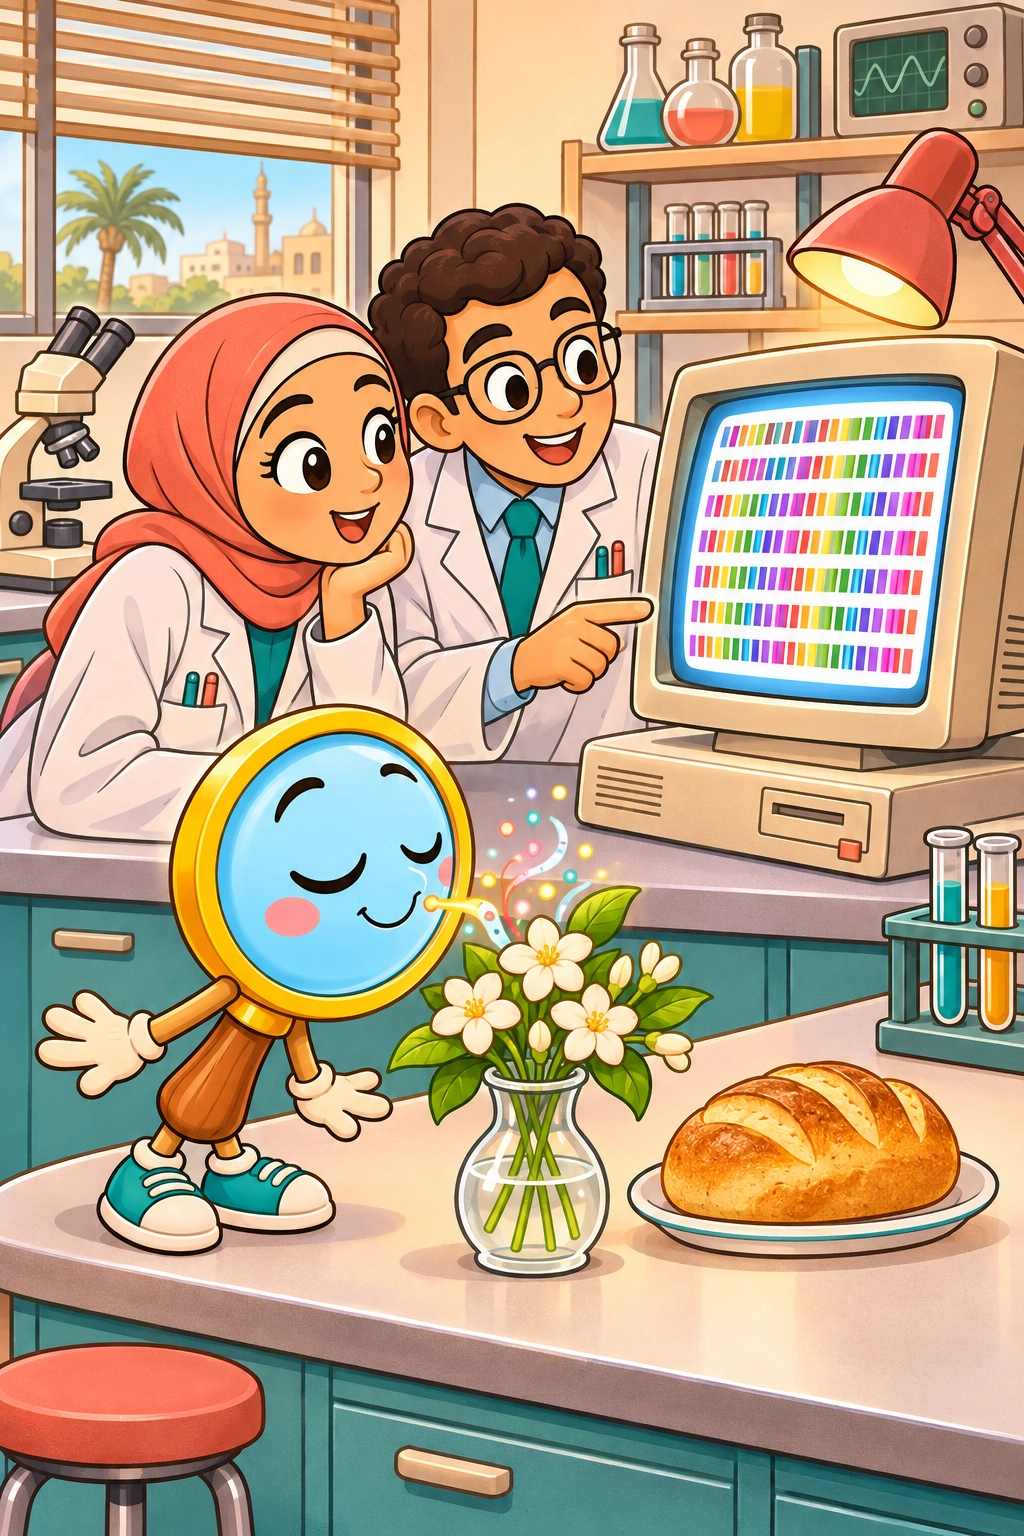
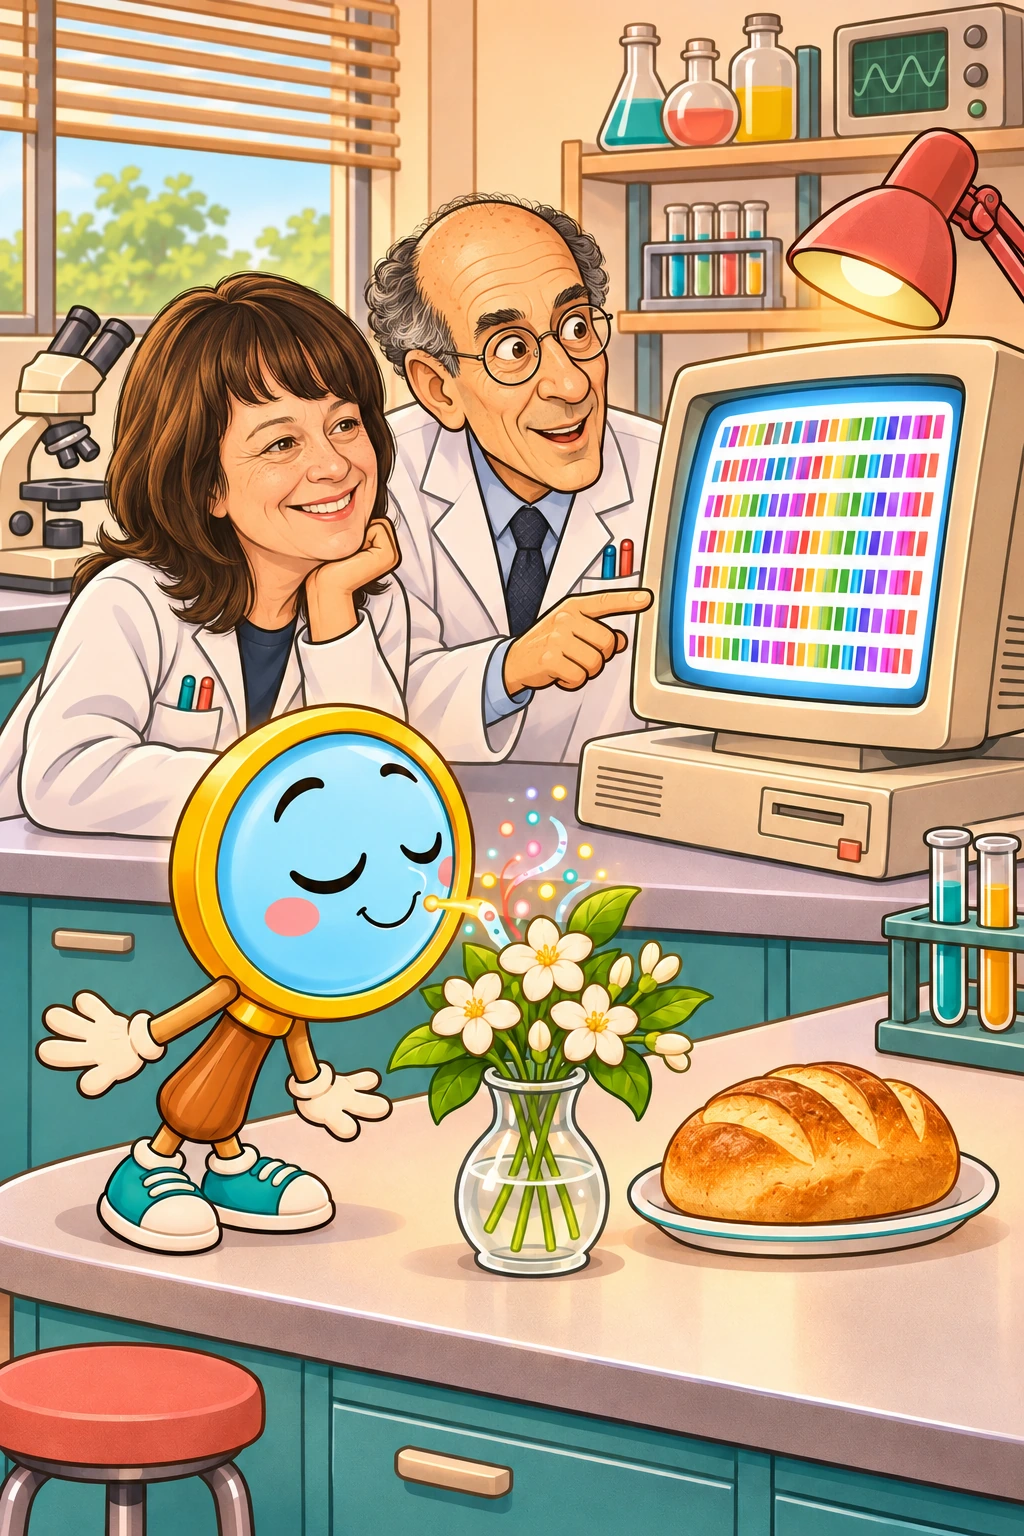
U08: استبدال صورتين بقرار صاحب المشروع — باك وأكسل بلا حجاب (L03-hist2)، وغلاف الخوف للولد والكليتان تحت القفص الصدري (L04-title-boy)
Claude-Session: https://claude.ai/code/session_01G7CgDsKA6tkPvMjYD2KqLL

diff --git a/docs/27-برومبتات-المشاهد-U08.md b/docs/27-برومبتات-المشاهد-U08.md
@@ -29,6 +29,7 @@
 ### حالة الصور (25 نوفمبر 2026): 63 من 63
 - **رُسمت بالشيفرة (SVG ← WebP) 27 صورة تعليمية** بأسلوب رسوم U06 وU07: U08.L01-E1 إلى E6، وU08.L02-E1 إلى E6، وU08.L03-E1 إلى E6، وU08.L04-E1 وE2 وE4 وE6، وU08.L05-E1 وE2 وE3 وE5 وE6. مصدرها `art-sources/U08/sources/build_u08.py` (وملفات SVG بجانبه). وحين يُستبدل المشهد بتفاعل خاص تُكمّله الصورة ولا تكرّره (مثلاً: طفل يقرأ والضوء يدخل عينه فوق تفاعل «طريق الضوء»).
 - **وصلت 36 صورة قصصية مولّدة (25 نوفمبر 2026) ورُكّبت** (فيها البطل أو لمّاح أو مشهد تاريخي)، وراجعتها بنداً بنداً على سطور «تحقق» أدناه: الغلافات العشرة، وU08.L04-E3 وE5، وU08.L05-E4، وصور التجارب الخمس، والعلماء الثمانية، ورسائل الأعضاء الخمس، و«في حياتي» الخمس. البرومبتات كاملة جاهزة للنسخ في `art-sources/U08/prompts/الصور-القصصية-للنسخ.md` (وبصيغة JSON في `prompts-final-imagegen.json`).
+- **استُبدلت صورتان (25 نوفمبر 2026) بقرار صاحب المشروع:** `U08.L03-hist2` (باك وأكسل بلا حجاب، لأن البطاقة تسمّي شخصين حقيقيين)، و`U08.L04-title-boy` (الكليتان تحت القفص الصدري لا عند مستوى القلب). وبقي `U08.L04-title-girl` بالموضع الأعلى القديم.
 - إن وُلّدت صورة تعليمية بالأداة لاحقاً بجودة أعلى فهي تحلّ محل الرسم المتجهي بالاسم نفسه.
 
 ### قبل أن تبدأ
